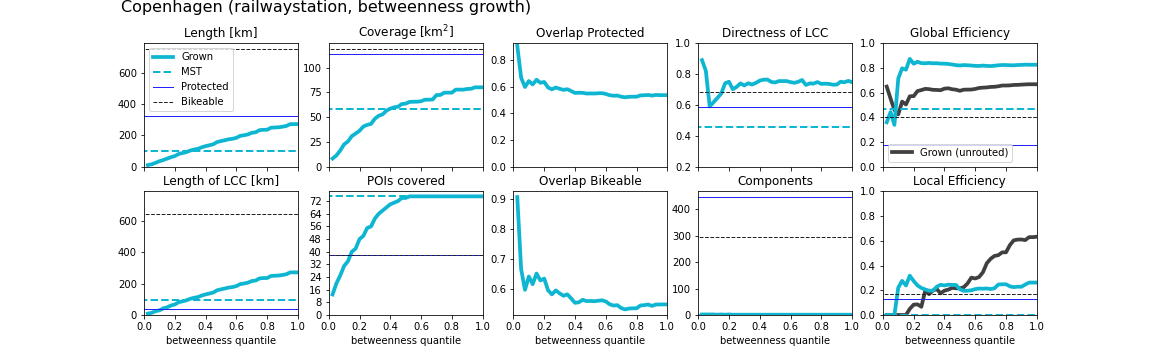
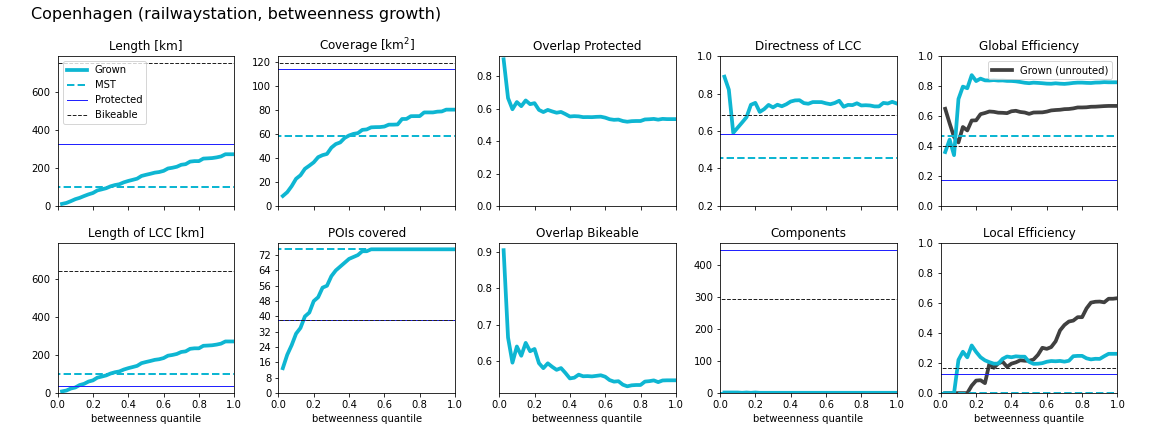
added constricted plots
- adjusted analysis plots

diff --git a/parameters/parameters.py b/parameters/parameters.py
@@ -49,7 +49,11 @@ plotparam_analysis = {
 			"mst": {"linewidth": 2, "color": '#0eb6d2', "linestyle": "dashed", "label": "MST"},
 			"mst_abstract": {"linewidth": 2, "color": '#000000', "linestyle": "dashed", "label": "MST (unrouted)", "alpha": 0.75},
 			"biketrack": {"linewidth": 1, "color": '#2222ff', "linestyle": "solid", "label": "Protected"},
-			"bikeable": {"linewidth": 1, "color": '#222222', "linestyle": "dashed", "label": "Bikeable"}
+			"bikeable": {"linewidth": 1, "color": '#222222', "linestyle": "dashed", "label": "Bikeable"},
+			"constricted": {"linewidth": 3.75, "color": '#D22A0E', "linestyle": "solid", "label": "Constricted"},
+			"constricted_3": {"linewidth": 2, "color": '#D22A0E', "linestyle": "solid", "label": "Top 3%"},
+			"constricted_5": {"linewidth": 2, "color": '#a3210b', "linestyle": "solid", "label": "Top 5%"},
+			"constricted_10": {"linewidth": 2, "color": '#5a1206', "linestyle": "solid", "label": "Top 10%"}
 			}
 
 

diff --git a/code/path.py b/code/path.py
@@ -4,6 +4,7 @@ PATH["data"] = "../data/"
 PATH["plots"] = "../plots/"
 PATH["plots_networks"] = "../../bikenwgrowth_external/plotsnetworks/"
 PATH["results"] = "../../bikenwgrowth_external/results/"
+PATH["results_constricted"] = "../../bikenwgrowth_external/results_constricted/"
 PATH["videos"] = "../../bikenwgrowth_external/videos/"
 PATH["exports"] = "../../bikenwgrowth_external/exports/"
 PATH["exports_json"] = "../../bikenwgrowth_external/exports_json/"
